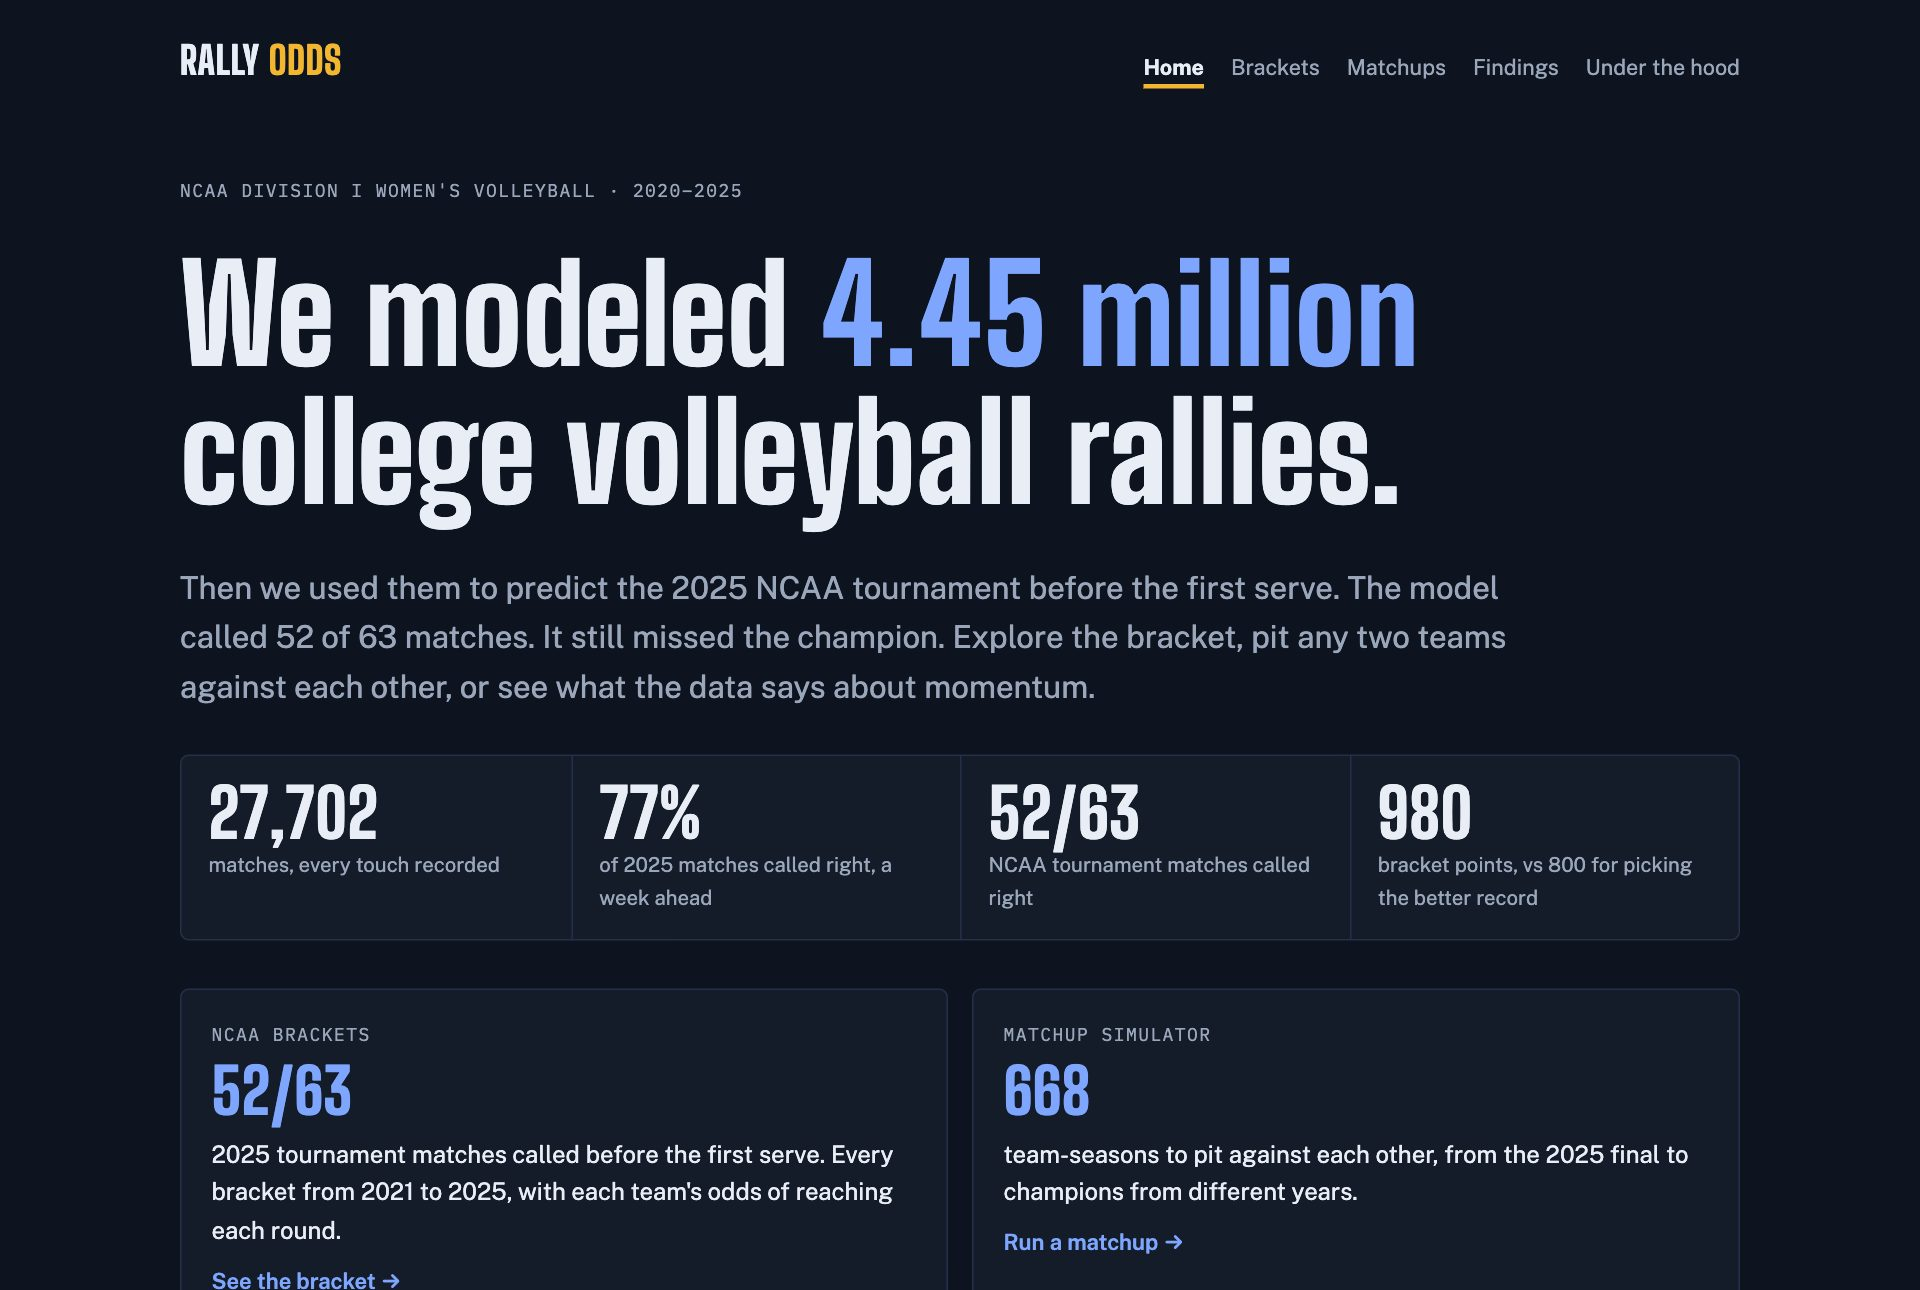
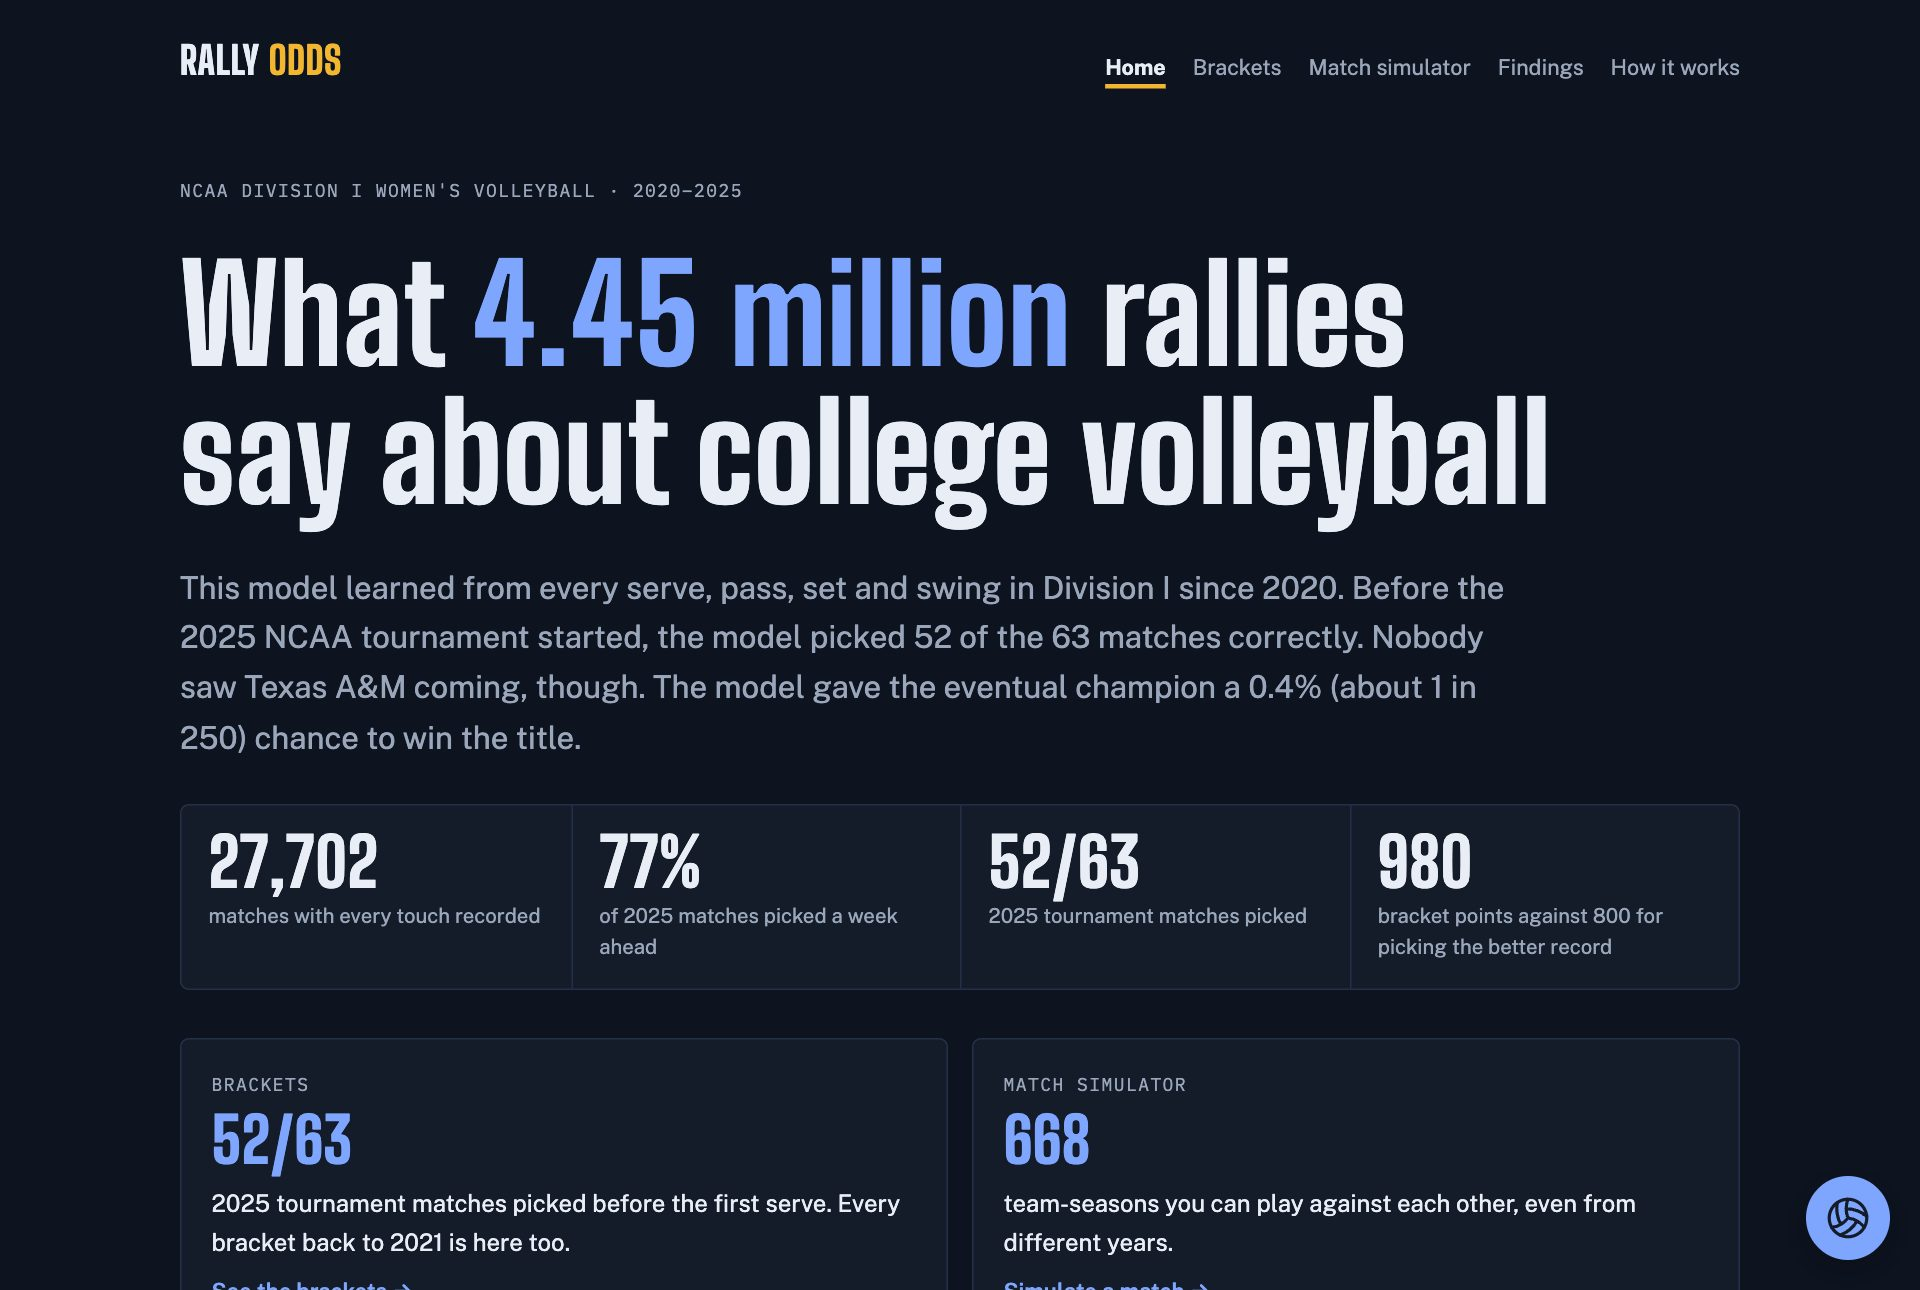
Rename "Under the hood" to "How it works" and refresh README screenshots
readme-shots.js now shoots the local build so screenshots match unpushed changes.

diff --git a/web/artifact.html b/web/artifact.html
@@ -407,7 +407,7 @@ footer { padding-bottom: 96px; }
     <a class="mark" href="#home">RALLY <span>ODDS</span></a>
     <nav aria-label="Pages" id="nav">
       <a href="#home">Home</a><a href="#bracket">Brackets</a><a href="#matchups">Match simulator</a>
-      <a href="#findings">Findings</a><a href="#model">Under the hood</a>
+      <a href="#findings">Findings</a><a href="#model">How it works</a>
     </nav>
   </header>
   <main id="main" tabindex="-1">
@@ -444,10 +444,10 @@ footer { padding-bottom: 96px; }
         <span class="go">Read the findings</span>
       </a>
       <a class="card" href="#model">
-        <span class="eyebrow">Under the hood</span>
+        <span class="eyebrow">How it works</span>
         <span class="big" id="c-acc"></span>
         <span>of 2025 matches picked a week ahead. Here's how the odds get made.</span>
-        <span class="go">Look under the hood</span>
+        <span class="go">See how it works</span>
       </a>
     </div>
   </div>
@@ -663,7 +663,7 @@ footer { padding-bottom: 96px; }
   <div class="view" data-view="model" hidden>
   <section>
     <div class="intro">
-      <div class="eyebrow">Under the hood · Step 1 of 5</div>
+      <div class="eyebrow">How it works · Step 1 of 5</div>
       <h2>It all starts with every touch of every match</h2>
       <p>The raw data is the official NCAA play-by-play from <span id="m-seasons"></span>. Every serve, pass, set, attack, dig and block is logged along with the player and the score.</p>
     </div>
@@ -1969,7 +1969,7 @@ const signedPts = v => `${signedNum(v)} percentage points`;
   $("toc").addEventListener("click", e => { const b = e.target.closest("button"); if (b) document.getElementById(b.dataset.go).scrollIntoView({ behavior: "smooth" }); });
 })();
 
-// ---------- Under the hood: data ----------
+// ---------- How it works: data ----------
 $("d-matches").textContent = fmtInt(T.matches);
 $("d-rallies").textContent = (T.rallies / 1e6).toFixed(2) + "M";
 (function () {

diff --git a/web/index.html b/web/index.html
@@ -415,7 +415,7 @@ footer { padding-bottom: 96px; }
     <a class="mark" href="#home">RALLY <span>ODDS</span></a>
     <nav aria-label="Pages" id="nav">
       <a href="#home">Home</a><a href="#bracket">Brackets</a><a href="#matchups">Match simulator</a>
-      <a href="#findings">Findings</a><a href="#model">Under the hood</a>
+      <a href="#findings">Findings</a><a href="#model">How it works</a>
     </nav>
   </header>
   <main id="main" tabindex="-1">
@@ -452,10 +452,10 @@ footer { padding-bottom: 96px; }
         <span class="go">Read the findings</span>
       </a>
       <a class="card" href="#model">
-        <span class="eyebrow">Under the hood</span>
+        <span class="eyebrow">How it works</span>
         <span class="big" id="c-acc"></span>
         <span>of 2025 matches picked a week ahead. Here's how the odds get made.</span>
-        <span class="go">Look under the hood</span>
+        <span class="go">See how it works</span>
       </a>
     </div>
   </div>
@@ -671,7 +671,7 @@ footer { padding-bottom: 96px; }
   <div class="view" data-view="model" hidden>
   <section>
     <div class="intro">
-      <div class="eyebrow">Under the hood · Step 1 of 5</div>
+      <div class="eyebrow">How it works · Step 1 of 5</div>
       <h2>It all starts with every touch of every match</h2>
       <p>The raw data is the official NCAA play-by-play from <span id="m-seasons"></span>. Every serve, pass, set, attack, dig and block is logged along with the player and the score.</p>
     </div>
@@ -1978,7 +1978,7 @@ const signedPts = v => `${signedNum(v)} percentage points`;
   $("toc").addEventListener("click", e => { const b = e.target.closest("button"); if (b) document.getElementById(b.dataset.go).scrollIntoView({ behavior: "smooth" }); });
 })();
 
-// ---------- Under the hood: data ----------
+// ---------- How it works: data ----------
 $("d-matches").textContent = fmtInt(T.matches);
 $("d-rallies").textContent = (T.rallies / 1e6).toFixed(2) + "M";
 (function () {

diff --git a/web/template.html b/web/template.html
@@ -407,7 +407,7 @@ footer { padding-bottom: 96px; }
     <a class="mark" href="#home">RALLY <span>ODDS</span></a>
     <nav aria-label="Pages" id="nav">
       <a href="#home">Home</a><a href="#bracket">Brackets</a><a href="#matchups">Match simulator</a>
-      <a href="#findings">Findings</a><a href="#model">Under the hood</a>
+      <a href="#findings">Findings</a><a href="#model">How it works</a>
     </nav>
   </header>
   <main id="main" tabindex="-1">
@@ -444,10 +444,10 @@ footer { padding-bottom: 96px; }
         <span class="go">Read the findings</span>
       </a>
       <a class="card" href="#model">
-        <span class="eyebrow">Under the hood</span>
+        <span class="eyebrow">How it works</span>
         <span class="big" id="c-acc"></span>
         <span>of 2025 matches picked a week ahead. Here's how the odds get made.</span>
-        <span class="go">Look under the hood</span>
+        <span class="go">See how it works</span>
       </a>
     </div>
   </div>
@@ -663,7 +663,7 @@ footer { padding-bottom: 96px; }
   <div class="view" data-view="model" hidden>
   <section>
     <div class="intro">
-      <div class="eyebrow">Under the hood · Step 1 of 5</div>
+      <div class="eyebrow">How it works · Step 1 of 5</div>
       <h2>It all starts with every touch of every match</h2>
       <p>The raw data is the official NCAA play-by-play from <span id="m-seasons"></span>. Every serve, pass, set, attack, dig and block is logged along with the player and the score.</p>
     </div>
@@ -1969,7 +1969,7 @@ const signedPts = v => `${signedNum(v)} percentage points`;
   $("toc").addEventListener("click", e => { const b = e.target.closest("button"); if (b) document.getElementById(b.dataset.go).scrollIntoView({ behavior: "smooth" }); });
 })();
 
-// ---------- Under the hood: data ----------
+// ---------- How it works: data ----------
 $("d-matches").textContent = fmtInt(T.matches);
 $("d-rallies").textContent = (T.rallies / 1e6).toFixed(2) + "M";
 (function () {

diff --git a/tools/checks/readme-shots.js b/tools/checks/readme-shots.js
@@ -7,9 +7,9 @@ const CHROME = process.env.CHROME || "/Applications/Google Chrome.app/Contents/M
   await p.setViewport({ width: 1280, height: 860, deviceScaleFactor: 1.5 });
   await p.emulateMediaFeatures([{ name: "prefers-color-scheme", value: "dark" }]);
   const out = ROOT + "/docs/images/";
-  await p.goto("https://m3tang.github.io/volleyball-sim/#home", { waitUntil: "networkidle0" });
+  await p.goto(ROOT_URL + "#home", { waitUntil: "networkidle0" });
   await p.screenshot({ path: out + "home.jpg", type: "jpeg", quality: 82 });
-  await p.goto("https://m3tang.github.io/volleyball-sim/#matchups", { waitUntil: "networkidle0" });
+  await p.goto(ROOT_URL + "#matchups", { waitUntil: "networkidle0" });
   await p.evaluate(() => window.scrollTo(0, 0));
   await p.screenshot({ path: out + "matchups.jpg", type: "jpeg", quality: 82 });
   await b.close();

diff --git a/README.md b/README.md
@@ -18,7 +18,7 @@ matches.
   and the odds update, set by set.
 - **Findings:** what separates elite teams, how much home court is worth, whether momentum
   is real, and how often the best team wins the title.
-- **Under the hood:** the data, the twelve numbers the model learns per team, a step-by-step
+- **How it works:** the data, the twelve numbers the model learns per team, a step-by-step
   calculation of one rally, and how the model was tested.
 - **Ask the model:** a chat, pinned to every page, that answers questions with the model's own
   numbers and shows the lookups behind each answer.
